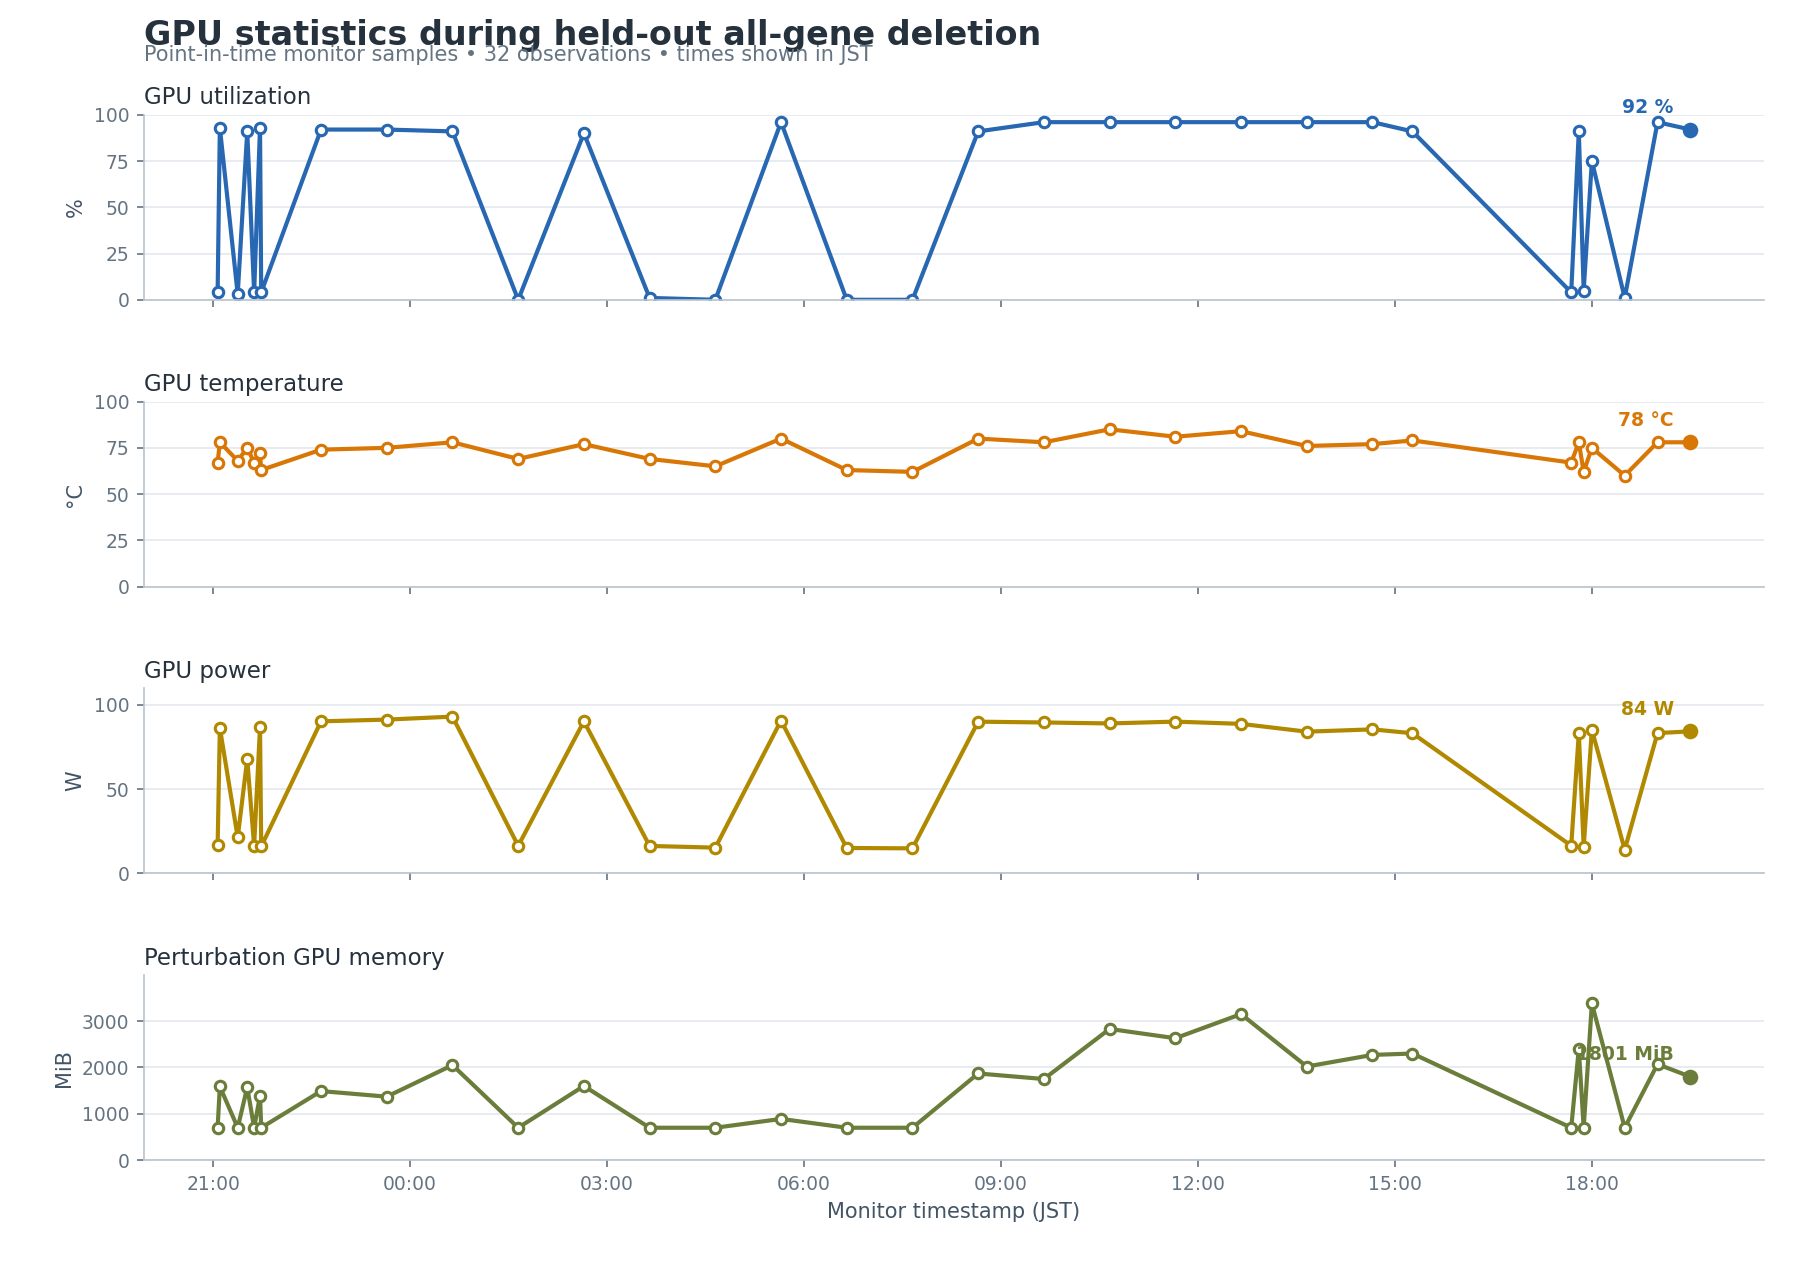
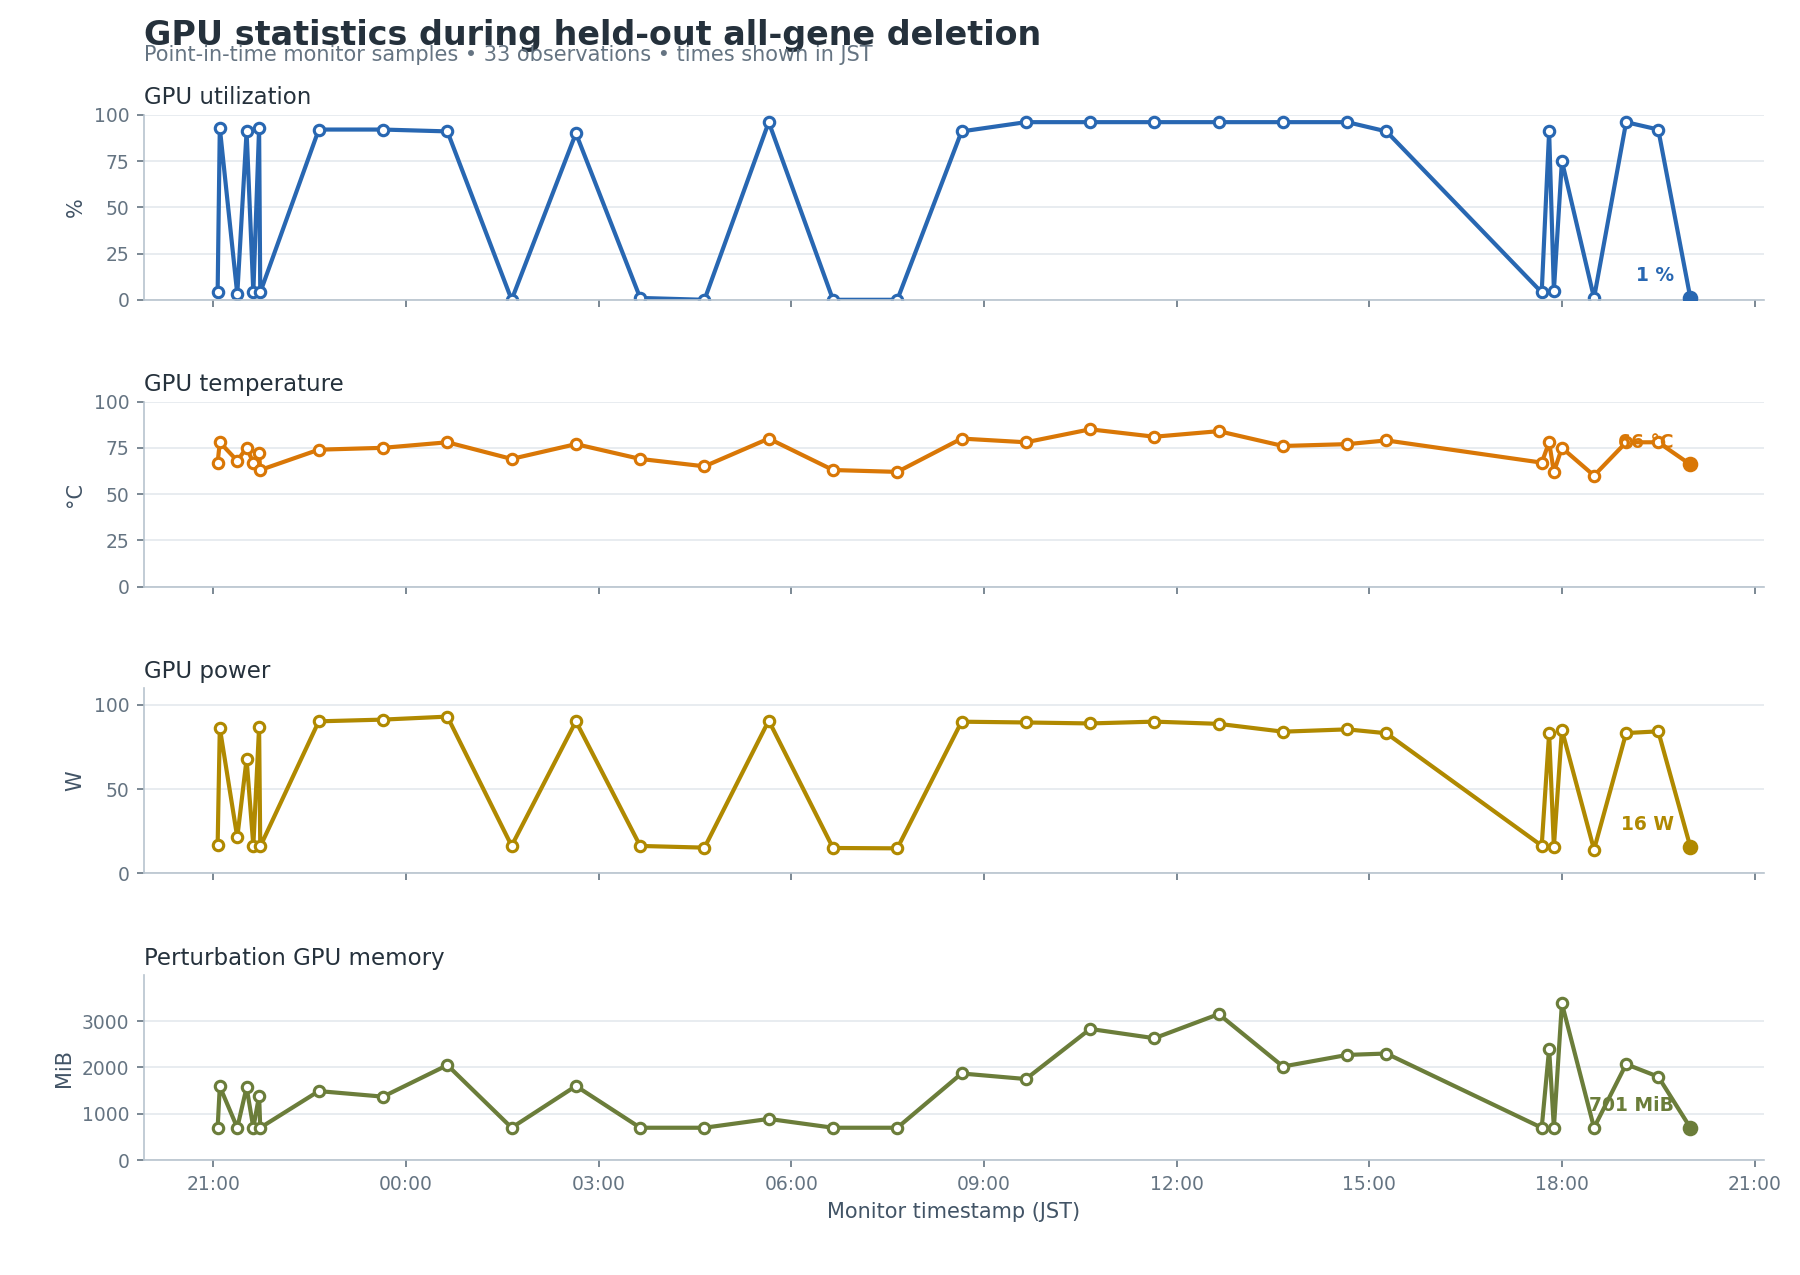
monitor: update perturbation status 2026-07-18 20:00 JST

diff --git a/current_workflow/monitoring/GPU_PROGRESS_REPORT.md b/current_workflow/monitoring/GPU_PROGRESS_REPORT.md
@@ -15,6 +15,7 @@ Newest refreshes are appended at the top and retained for the most recent
 48 runs.
 
 <!-- JOB_RUN_SUMMARIES_START -->
+- **2026-07-18T20:00:01+09:00** — RUNNING; 2,813 / 3,379 cells (83.25%). The run advanced by 47 cells and 2 shards, lifting completion from 81.86% to 83.25%. LUSC remained complete; LUAD remained complete; NORMAL moved from 795 to 842 cells; GPU utilization fell from 92% to 1%.
 - **2026-07-18T19:30:01+09:00** — RUNNING; 2,766 / 3,379 cells (81.86%). The run advanced by 37 cells and 1 shards, lifting completion from 80.76% to 81.86%. LUSC remained complete; LUAD remained complete; NORMAL moved from 758 to 795 cells; GPU utilization fell from 96% to 92%.
 - **2026-07-18T19:00:01+09:00** — RUNNING; 2,729 / 3,379 cells (80.76%). The run advanced by 37 cells and 2 shards, lifting completion from 79.67% to 80.76%. LUSC remained complete; LUAD remained complete; NORMAL moved from 721 to 758 cells; GPU utilization rose from 1% to 96%.
 - **2026-07-18T18:30:01+09:00** — RUNNING; 2,692 / 3,379 cells (79.67%). The run advanced by 46 cells and 1 shards, lifting completion from 78.31% to 79.67%. LUSC remained complete; LUAD remained complete; NORMAL moved from 675 to 721 cells; GPU utilization fell from 75% to 1%.
@@ -26,20 +27,20 @@ Newest refreshes are appended at the top and retained for the most recent
 
 ## Current snapshot
 
-**What changed since the prior report:** The run advanced by 37 cells and 1 shards, lifting completion from 80.76% to 81.86%. LUSC remained complete; LUAD remained complete; NORMAL moved from 758 to 795 cells; GPU utilization fell from 96% to 92%.
+**What changed since the prior report:** The run advanced by 47 cells and 2 shards, lifting completion from 81.86% to 83.25%. LUSC remained complete; LUAD remained complete; NORMAL moved from 795 to 842 cells; GPU utilization fell from 92% to 1%.
 
 | Metric | Value |
 | --- | --- |
-| Generated | 2026-07-18T19:30:01+09:00 |
+| Generated | 2026-07-18T20:00:01+09:00 |
 | Run status | RUNNING |
-| Overall cell progress | 2,766 / 3,379 (81.86%) |
+| Overall cell progress | 2,813 / 3,379 (83.25%) |
 | GPU | NVIDIA GB10 |
-| GPU utilization | 92% |
-| GPU temperature | 78 C |
-| GPU power | 84.3 W |
-| Perturbation GPU memory | 1,801 MiB |
-| System memory used | 39.6 GiB |
-| System memory available | 80.1 GiB |
+| GPU utilization | 1% |
+| GPU temperature | 66 C |
+| GPU power | 15.7 W |
+| Perturbation GPU memory | 701 MiB |
+| System memory used | 41.3 GiB |
+| System memory available | 78.4 GiB |
 | Swap used | 0.0 GiB |
 
 ### Progress by source
@@ -48,11 +49,11 @@ Newest refreshes are appended at the top and retained for the most recent
 | --- | --- | --- | --- | --- |
 | LUSC | 560 / 560 (100.00%) | 23 / 23 | 1,120 | 348,313 / 348,313 |
 | LUAD | 1,411 / 1,411 (100.00%) | 57 / 57 | 2,822 | 1,150,097 / 1,150,097 |
-| NORMAL | 795 / 1,408 (56.46%) | 31 / 57 | 1,601 | 796,333 / 1,439,366 |
+| NORMAL | 842 / 1,408 (59.80%) | 33 / 57 | 1,695 | 852,790 / 1,439,366 |
 
 ## Final statistical comparisons
 
-**0 / 6 comparisons are complete. Final aggregation waits for the deletion screen, currently 111 / 137 shards.**
+**0 / 6 comparisons are complete. Final aggregation waits for the deletion screen, currently 113 / 137 shards.**
 
 | Comparison | State | Result rows | Updated | Output |
 | --- | --- | --- | --- | --- |
@@ -77,6 +78,7 @@ The history table below shows the newest samples first.
 
 | Timestamp | Cells | Progress | GPU util | Temp | Power | Shards |
 | --- | --- | --- | --- | --- | --- | --- |
+| 2026-07-18T20:00:01+09:00 | 2,813 | 83.25% | 1% | 66 C | 15.7 W | 113 |
 | 2026-07-18T19:30:01+09:00 | 2,766 | 81.86% | 92% | 78 C | 84.3 W | 111 |
 | 2026-07-18T19:00:01+09:00 | 2,729 | 80.76% | 96% | 78 C | 83.3 W | 110 |
 | 2026-07-18T18:30:01+09:00 | 2,692 | 79.67% | 1% | 60 C | 14.1 W | 108 |
@@ -84,7 +86,6 @@ The history table below shows the newest samples first.
 | 2026-07-18T17:52:31+09:00 | 2,630 | 77.83% | 5% | 62 C | 15.7 W | 106 |
 | 2026-07-18T17:48:04+09:00 | 2,625 | 77.69% | 91% | 78 C | 83.2 W | 106 |
 | 2026-07-18T17:41:08+09:00 | 2,613 | 77.33% | 4% | 67 C | 16.5 W | 105 |
-| 2026-07-18T15:16:02+09:00 | 2,403 | 71.12% | 91% | 79 C | 83.2 W | 97 |
 
 ## Job notes
 
